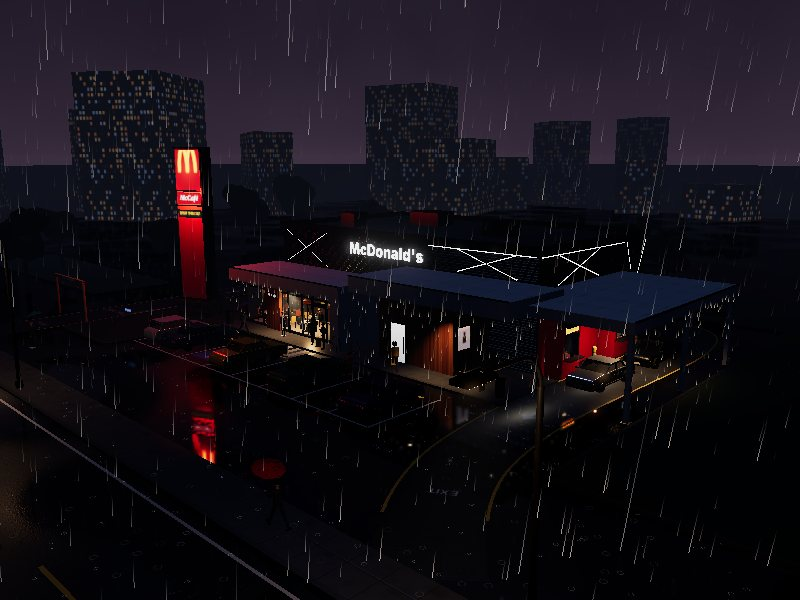
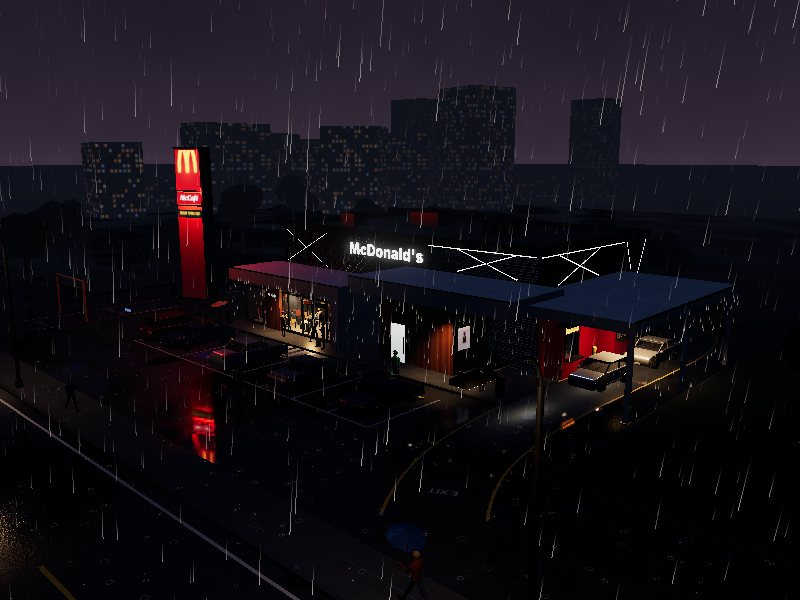
fix(drive-thru): no light shafts, no halo on lamps and headlamps
The street-lamp cones and headlight beams were open cones drawn into the
rain; on the user's GPU their rims rendered as bright rings on the road.
Both are removed, and lamp heads and headlamps now sit below the bloom
threshold, so they light the scene and reflect in the wet ground as
ordinary lights, with no glow. Stills, case study and README updated.

Claude-Session: https://claude.ai/code/session_01X94E3mkS9WyU9NzztKNGpt

diff --git a/cases/library/drive-thru/drive-thru.js b/cases/library/drive-thru/drive-thru.js
@@ -803,23 +803,7 @@ for (const [x, z, s] of [[-30, -20, 1.3], [-36, 4, 1.1], [-38, 18, 1.4], [-18, -
   [24, -18, 1.3], [28, -4, 1.0], [29, 10, 1.4], [-17.5, -2, .85], [-46, -12, 1.6], [46, -10, 1.5], [-50, 10, 1.3], [52, 10, 1.2], [-58, -30, 1.7], [60, -28, 1.6]]) tree(x, z, s);
 for (let x = -22; x < 16; x += 2.4) { const h = rand(1, 1.25); rbox(2.35, h, 1.3, .3, M.hedge, x, .16 + h / 2, -16.8); }
 
-// light shafts in the rain: brightest near the lamp, fading along the cone and
-// towards its silhouette, so the open cylinder never shows a hard edge
-function shaftMat(color, opacity, edge = 2) {
-  return new THREE.ShaderMaterial({
-    transparent: true, depthWrite: false, blending: THREE.AdditiveBlending, side: THREE.DoubleSide,
-    uniforms: { uColor: { value: new THREE.Color(color) }, uOpacity: { value: opacity }, uEdge: { value: edge } },
-    vertexShader: `varying vec2 vUv; varying vec3 vN; varying vec3 vV;
-      void main(){ vUv = uv; vec4 mv = modelViewMatrix * vec4(position, 1.0);
-        vN = normalize(normalMatrix * normal); vV = normalize(-mv.xyz); gl_Position = projectionMatrix * mv; }`,
-    fragmentShader: `uniform vec3 uColor; uniform float uOpacity, uEdge; varying vec2 vUv; varying vec3 vN; varying vec3 vV;
-      void main(){ float f = pow(abs(dot(normalize(vN), normalize(vV))), uEdge);
-        float a = uOpacity * f * pow(vUv.y, 1.6); gl_FragColor = vec4(uColor * a, a); }`,
-  });
-}
-// ---- street lamps
-const coneMat = shaftMat(0xffdcae, .07, .8);
-const lampHeadMat = new THREE.MeshBasicMaterial({ color: lin(1.5, 1.25, .9) });
+const lampHeadMat = new THREE.MeshBasicMaterial({ color: lin(1.05, .92, .7) });   // under the bloom threshold: lit, no halo
 const lampArc = new THREE.TorusGeometry(.8, .05, 6, 16, PI / 2);
 for (const x of [-42, -8, 26, 60]) {
   const z = 29.0;
@@ -830,7 +814,6 @@ for (const x of [-42, -8, 26, 60]) {
   const head = new THREE.Mesh(new THREE.PlaneGeometry(.38, .82), lampHeadMat); head.rotation.x = PI / 2; head.position.set(x, 8.67, z + 2.45); P.add(head);
   if (x === -8 || x === 26) pointLight(0xffc98f, 55, 26, x, 8.4, z + 2.45);
   lightPool(x, z + 2.45, 14, 0xffc98f, x === -8 || x === 26 ? .06 : .16);
-  const cone = new THREE.Mesh(new THREE.CylinderGeometry(.25, 4.6, 8.5, 24, 1, true), coneMat); cone.position.set(x, 4.35, z + 2.45); P.add(cone);
 }
 // ---- distant city
 const cityMat = new THREE.MeshBasicMaterial({ map: windowsTex, color: lin(.5, .5, .55) });
@@ -933,10 +916,9 @@ const trimMat = MS({ color: 0x0e0f11, roughness: .5, metalness: .2 });
 const tyreMat = MS({ color: 0x121212, roughness: .85 });
 const rimMat = MS({ color: 0xc4c8ce, roughness: .18, metalness: 1 });
 const rimDark = MS({ color: 0x1a1b1d, roughness: .4, metalness: .6 });
-const headOn = new THREE.MeshBasicMaterial({ color: lin(1.5, 1.45, 1.3) });
+const headOn = new THREE.MeshBasicMaterial({ color: lin(1.05, 1.02, .92) });          // under the bloom threshold: lit, no halo
 const headOff = MS({ color: 0x8a8a8a, roughness: .15, metalness: .8 });
 const poolMat = new THREE.MeshBasicMaterial({ map: poolTex, color: lin(.12, .11, .09), blending: THREE.AdditiveBlending, transparent: true, depthWrite: false });
-const beamMat = shaftMat(0xfff1d6, .025);
 const driverMat = MS({ color: 0x1a1512, roughness: .8 });
 
 const TYPES = {
@@ -1045,7 +1027,6 @@ function makeCar(lit = true, type = pick(['sedan', 'sedan', 'suv', 'hatch'])) {
   }
   if (lit) {
     const pl = new THREE.Mesh(new THREE.PlaneGeometry(4.2, 10), poolMat); pl.rotation.x = -PI / 2; pl.position.set(0, .1, T.L / 2 + 5); g.add(pl);
-    const beam = new THREE.Mesh(new THREE.CylinderGeometry(.35, 2.4, 11, 18, 1, true).rotateX(-PI / 2), beamMat); beam.position.set(0, lt.headY, T.L / 2 + 5.5); g.add(beam);
   }
   scene.add(g);
   return { g, wheels, tail, indL, wipers, wph: rand(0, 6), paint, s: 0, v: 0, stop: 0, wait: null };

diff --git a/cases/library/drive-thru/project.html b/cases/library/drive-thru/project.html
@@ -43,7 +43,7 @@
 		</p>
 
 		<img class="plate-shot" src="assets/hero.jpg" width="2000" height="1333"
-			alt="A drive-thru restaurant at night in heavy rain: a dark building with glowing white light strips and a lit sign, a tall red pylon with golden arches reflected in the wet car park, cars queuing under the drive-thru canopy and a street lamp throwing a cone of light through the rain." />
+			alt="A drive-thru restaurant at night in heavy rain: a dark building with glowing white light strips and a lit sign, a tall red pylon with golden arches reflected in the wet car park, cars queuing under the drive-thru canopy and a street lamp lighting the wet road." />
 
 		<dl class="facts">
 			<div>
@@ -173,10 +173,10 @@
 				became its own pair of sliding leaves that open when anyone comes within a couple of metres.
 			</p>
 			<p>
-				The headlight beams were open cones with a flat fade along their length. Seen from the side, the
-				walls of the cone showed as a pale slab with a hard edge. They now fade towards their silhouette
-				as well as along their length, so a beam reads as light in rain rather than as a sheet of glass,
-				and the street-lamp cones use the same shader.
+				The headlight beams and the street-lamp cones were open cones drawn into the rain. On the
+				first GPU that saw them, their edges showed as bright rings on the road instead of light. They are
+				gone: headlamps and street lamps now just light what is in front of them, sit below the glow
+				threshold, and show up in the wet ground as ordinary reflections.
 			</p>
 		</section>
 

diff --git a/cases/library/drive-thru/README.md b/cases/library/drive-thru/README.md
@@ -61,9 +61,11 @@ its third frame, which is what to wait for before a screenshot.
   Their fill light is a small emissive term on their materials, not a lamp.
 - **Glow is kept to a trace on purpose.** Bloom is strength 0.06, radius
   0.15, threshold 1.25, and every other glow layer is held down with it: lamp
-  heads, light shafts and ground pools, headlamps and their road pools, tail
-  lights, the wet-ground reflection (mirror tint `0x4e5560`) and the rain lit
-  by nearby lights. Raise them together, or the scene goes muddy.
+  heads, ground pools, headlamps and their road pools, tail lights, the
+  wet-ground reflection (mirror tint `0x4e5560`) and the rain lit by nearby
+  lights. Street lamps and headlamps sit below the bloom threshold, so they
+  light things without a halo. There are no light shafts: drawn as open
+  cones, their rims showed as bright rings on some GPUs.
 - **Signage** is drawn by `dtex`, which registers a redraw; the language
   switch calls every redraw. Add a sign there and it is bilingual for free —
   the strings live in `S.en` / `S.zh`, the panel's in `UI.en` / `UI.zh`.
